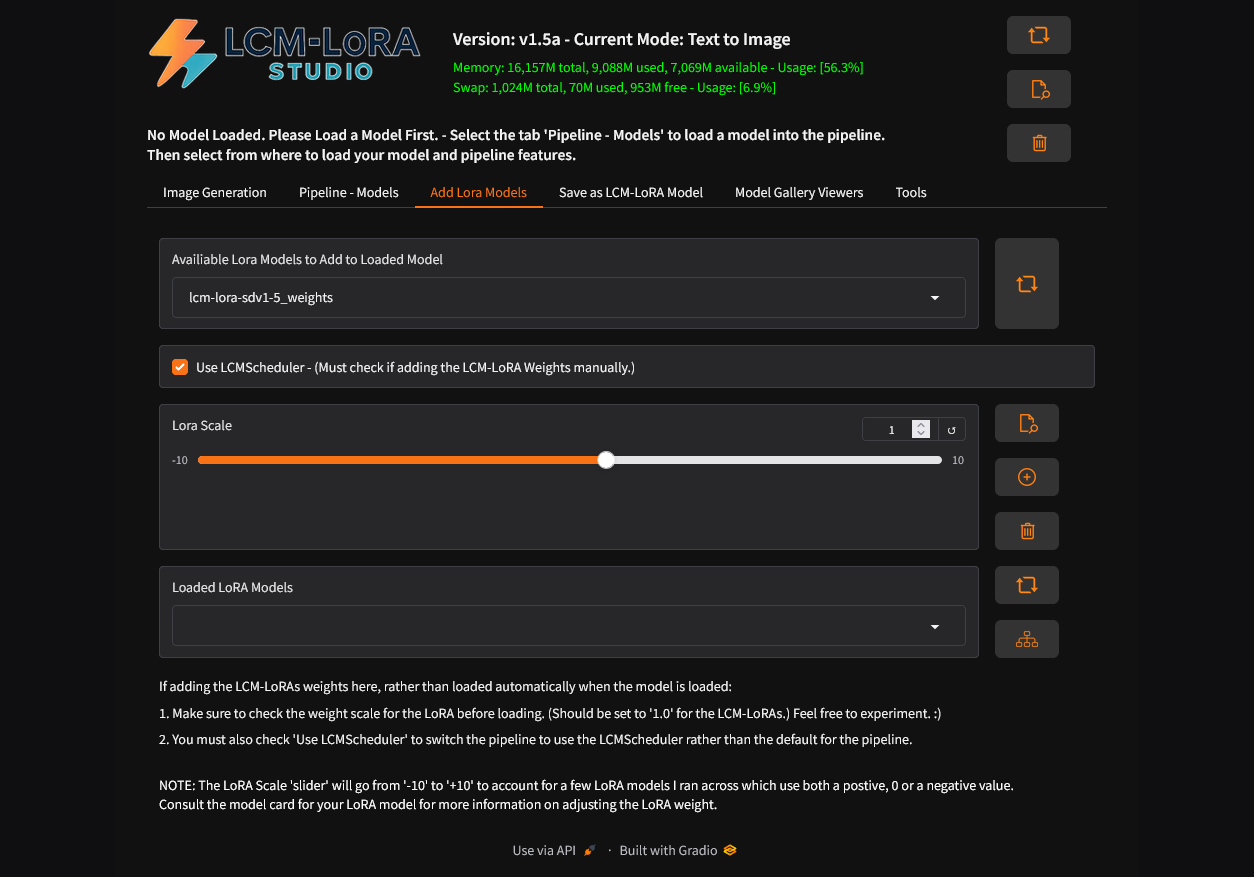
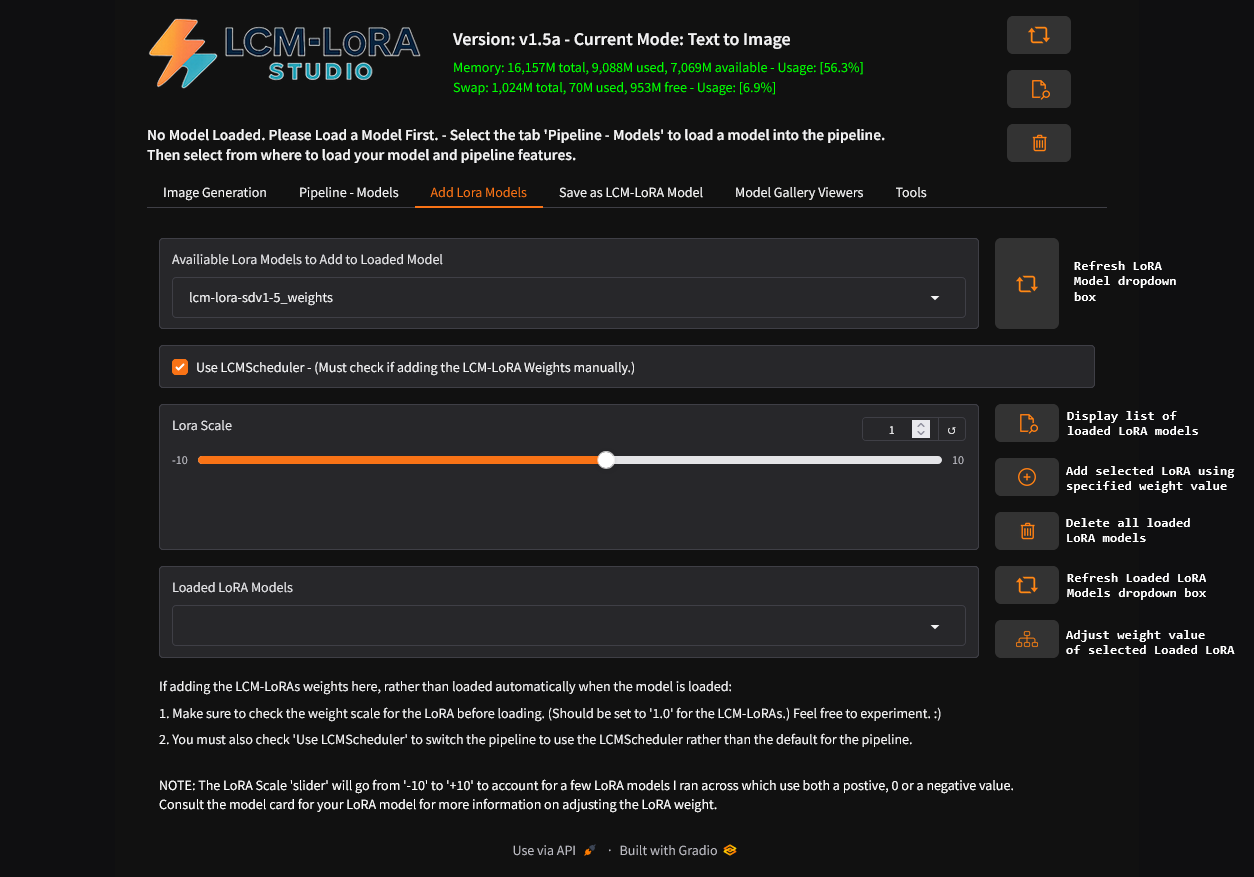
Add files via upload
Updated help section.
More help pages provided, more screenshots, plus annotated screenshots.

diff --git a/help/tools_tab.html b/help/tools_tab.html
@@ -1,0 +1,142 @@
+<!DOCTYPE html>
+<html lang="en">
+    <head>
+        <title>LCM-LoRA Studio - Help - Tools</title>
+        <style>body{background-color:#222;color:#aaa}a,a:active,a:focus,a:link,a:visited{color:#c64;text-decoration:underline}a:hover{color:#f97;text-decoration:none}</style>
+    </head>
+<body>
+<img src="lcm-lora-studio-logo.png"><br>
+<h2>LCM-LoRA Studio - Help - Tools</h2>
+<p>
+<ul>
+<li><a href="index.html">Help - Index</a></li>
+</ul>
+</p>
+<hr>
+<!-- MAIN CONTENT START -->
+
+
+
+<h2>
+Tools - Image Processing
+</h2>
+
+<p>
+If you go to the Tools Tab, Image Processing. 
+</p>
+
+<p>
+I included to facilitate making the canny images and other edge images. Plus do post processing on generated images if desired.
+</p>
+
+<p>
+ If you drop down the accordion 'image processing load save', you'll see files that are in the 'imgp_files' directory in the root of the program folder. This whole tab works only on image files located here in this directory. Isolated from all other images. 
+</p>
+
+<p>
+All of the images you load in, or save to, works out of that one folder. That way you don't pollute your whole ecosystem with these pieces of files (images) you're just using to generate an image from. Like a canny image. But you load your image and it goes into the input image box. From there you can process the image in a post process stage.
+</p>
+
+<p>
+At each stage. You've got different things you can adjust. Brightness, contrast. You can just run the different stages. Grab the image output at each stage. Send to a ControlNet Input. 'Copy' to the Clipboard to Input into anonther Image Input in LCM-LoRA Studio, or 'paste' into a another application.
+</p>
+
+<p>
+It'll also do a Depth Map, Edge Detection and Canny. 
+</p>
+
+<p>
+And once it's done, you can send these directly to your ControlNet input with a button push and/or save the images.
+</p>
+
+<p>
+We can send a grayscale if you do a depth map on it. It'll do a depth map on the adjusted image and the output will end up in the grayscale. Stage two. Once it's done, you click the button and it'll send it directly to ControlNet 1. 
+</p>
+
+<p>
+Speaking of ControlNet stuff, I made a simple, real simple Openpose editor. You can check it out. It's got its own instructions. It opens up in a separate tab in your browser and it's just a web page with JavaScript in it. 
+</p>
+
+<br>
+<hr>
+<br>
+
+<h2>
+Tools - Manage Images
+</h2>
+
+<p>
+This part of the program is what you can use to delete images from your output folder. When you go to that tab, it's all of your outputs. 
+</p>
+
+<p>
+If you click on one of the images, it'll display the prompt. 
+</p>
+
+<p>
+And that's it. You can click on them. So you can browse through it and look at your outputs. It's another way of looking at your outputs, like the output gallery, except through this way. Once you've got one on the screen, you can drop the accordion down at the bottom of the page, where it says 'image text parameter to (delete hidden for safety)' and delete it. 
+</p>
+
+<p>
+It deletes the picture AND the text parameter file that goes with it. 
+</p>
+
+<p>
+You've got to close the picture for it to refresh that whole list, which is why I mentioned somewhere else in this documentation. You might want to keep the number of images in your output folder down because it slows this part of the program down. It's a Gradio Cache thing :)
+</p>
+
+<p>
+But once you hit delete, as soon as you close that picture, the whole thing will get refreshed. 
+</p>
+
+<p>
+Now if you don't close the image, eventually a new one will appear. How long depends on how many images are in your output folder. 
+</p>
+
+<p>
+And that's how you can tame your unwanted output images. 
+</p>
+
+
+<br>
+<hr>
+<br>
+
+<h2>
+Tools - Manage Models
+</h2>
+
+
+<p>
+Under the Manage Models tab, you have the 'LCM-LoRA Models', 'Huggingface', 'Local Cached Models', 'Lora Models', And 'Safetensors Models' tabs. These tabs provide an easy, 'built-in' way, for you to delete unwanted models. 
+</p>
+
+<p>
+For your 'saved' LCM-LoRA Models, LoRa Models, and Safetensors Models, that you have the 'base' Model itself, plus a possible, Model's 'Gallery' of images, and a 'Model Card', it's a separate delete for the Gallery and Model Card. 
+</p>
+
+<p>
+You have to check the boxes at the bottom to delete amything, it won't delete it and it'll tell you that.<br>
+The checkboxes serve as a type of "Confirm to Delete?' dialog. 
+</p>
+
+<p>
+For Huggingface it just deletes the folder the model is stored in. Which will make it go download it again because it can't find it. If you think you got a corrupt one, I guess you can delete it and just go tell it to get it again, or just try and use it. It will go get it, if you just simply try and use it. That's one of the reasons I put that in there. Otherwise, I normally don't touch the Huggingface models. Once downloaded, I leave them be. But sometimes files do get corrupt.
+<br>
+<i>Of course this only applies if models appear in the Huggingface dropdown box. If they do not, that can be fixed in 'Settings', see the 'Huggingface Hub Cache' location setting.</i>
+</p>
+
+
+
+<!-- MAIN CONTENT END -->
+<br>
+<a href="#"><img src="backtotop.png" width="32" height="32" alt="Back to Top" title="Back to Top"></a>
+<br>
+<br>
+<hr>
+<p>Copyright (C) 2025-present <a href="https://rockstevens.com">Rock Stevens</a></p>
+<br>
+<br>
+</body>
+</html>
+

diff --git a/help/versions.html b/help/versions.html
@@ -1,32 +1,22 @@
-<html>
+<!DOCTYPE html>
+<html lang="en">
     <head>
         <title>LCM-LoRA Studio - Help - Versions</title>
-        <style>
-            body {
-                background-color: #222222; /* Sets the background to black */
-                color: #aaaaaa;             /* Sets the default text color to orange */
-            }
-			/* Group all link states together and set the color */
-			a,
-			a:link,
-			a:visited,
-			a:hover,
-			a:active,
-			a:focus {
-				color: #cc6644; /* Sets all links to the same gray color */
-				text-decoration: underline; /* Optional: Keep underline for links */
-			}
-        </style>
+        <style>body{background-color:#222;color:#aaa}a,a:active,a:focus,a:link,a:visited{color:#c64;text-decoration:underline}a:hover{color:#f97;text-decoration:none}</style>
     </head>
 <body>
 <img src="lcm-lora-studio-logo.png"><br>
-<h2>LCM-LoRA Studio v1.5 - Help - Versions</h2>
+<h2>LCM-LoRA Studio - Help - Versions</h2>
 <p>
 <ul>
 <li><a href="index.html">Help - Index</a></li>
 </ul>
 </p>
-<hr width="95%">
+<hr>
+<!-- MAIN CONTENT START -->
+
+
+
 <p>
 
 <pre>
@@ -52,19 +42,20 @@ FIX: Grammer throughout most all text.
 LCM-LoRA-Studio v1.5a
 
 Added - Save LCM-LoRA Models as Single File Safetensors Models (SD/SDXL).
+
 Added - Load separate Text Encoder for Safetensors Models (SD Only).
+
 Added - Turn On/Off LCM Scheduler at key points.
         This gives the ability to Load a Single File Safetensors Model and Save as LCM-LoRA Model 
 		Fiddle with it...  Re-Save.
 		Then save back out to a Single File Safetensors Model again.
-		
 		Note: Tested in A1111, using an LCM Scheduler.
 
+Added:  Ability to Load separate Text Encoder for Safetensors Model fixes errors 
+        Use for when the 'text_encoder' is missing in a Safetensors models.
+	    Must use a saved LCM-LoRA model.
+	    SD Only Models.
 
-FIX: Load separate Text Encoder for Safetensors Model fixes errors 
-     caused by 'missing text_encoder' in some Safetensors models.
-	 Must use a saved LCM-LoRA model.
-	 SD Only Models.
 
 ----
 
@@ -139,8 +130,14 @@ Hard coded most everything.
 </p>
 
 
-
-<hr width="95%">
+<!-- MAIN CONTENT END -->
+<br>
+<a href="#"><img src="backtotop.png" width="32" height="32" alt="Back to Top" title="Back to Top"></a>
+<br>
+<br>
+<hr>
 <p>Copyright (C) 2025-present <a href="https://rockstevens.com">Rock Stevens</a></p>
+<br>
+<br>
 </body>
 </html>
